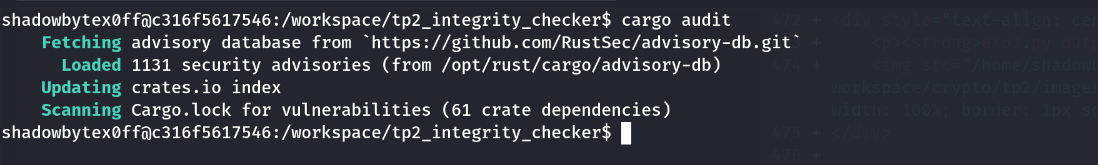
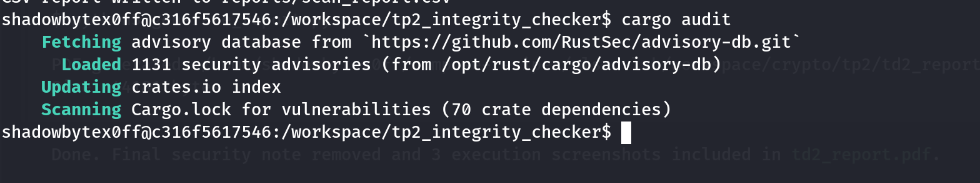
Update PDF with all 8 screenshots

Changed region(s): [[0.0, 0.0606, 0.8265, 0.8788], [0.0, 0.0, 0.4592, 0.0303]]

diff --git a/create_report.py b/create_report.py
@@ -197,10 +197,13 @@ pdf.add_page()
 pdf.section_title("4. Execution Evidence")
 pdf.body_text("The following screenshots demonstrate successful execution of the tool:")
 
-pdf.add_screenshot(SCREENSHOTS / "02_cargo_run.png", "Figure 2: SHA-256 verification and cargo run output", w=160)
-pdf.add_screenshot(SCREENSHOTS / "03_scan_result.png", "Figure 3: Scan result with match detection", w=160)
+pdf.add_screenshot(SCREENSHOTS / "02_cargo_run.png", "Figure 2: cargo run base scan output", w=160)
+pdf.add_screenshot(SCREENSHOTS / "03_cargo_scan.png", "Figure 3: Scan result with match detection", w=160)
 pdf.add_screenshot(SCREENSHOTS / "04_cargo_test.png", "Figure 4: cargo test - 12 unit tests + 4 integration tests", w=160)
 pdf.add_screenshot(SCREENSHOTS / "05_cargo_clippy.png", "Figure 5: cargo clippy - zero warnings", w=160)
+pdf.add_screenshot(SCREENSHOTS / "06_cargo_audit.png", "Figure 6: cargo audit - dependency vulnerabilities check", w=140)
+pdf.add_screenshot(SCREENSHOTS / "07_json.png", "Figure 7: JSON output format", w=160)
+pdf.add_screenshot(SCREENSHOTS / "08_good_manifest.png", "Figure 8: Known-good manifest mode", w=160)
 
 pdf.body_text("Generated CSV report content:")
 csv_content = (